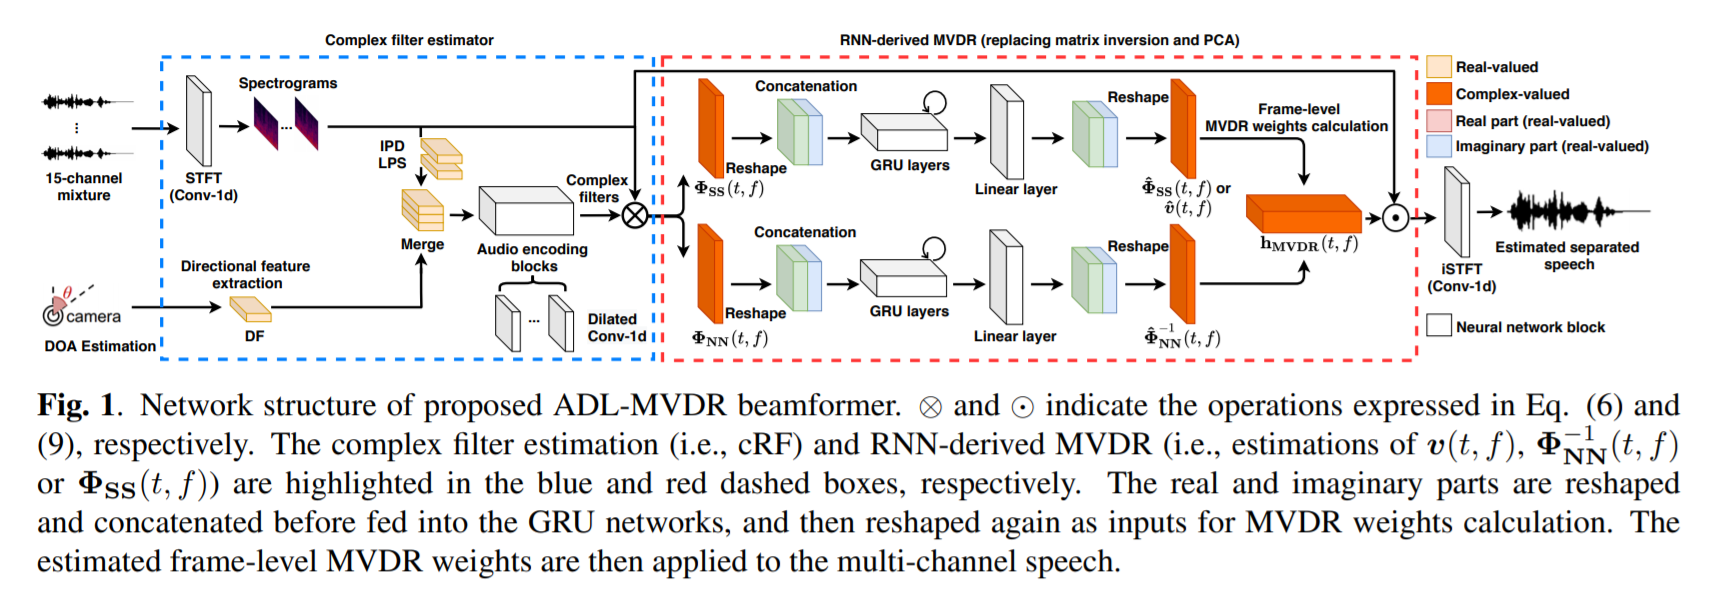
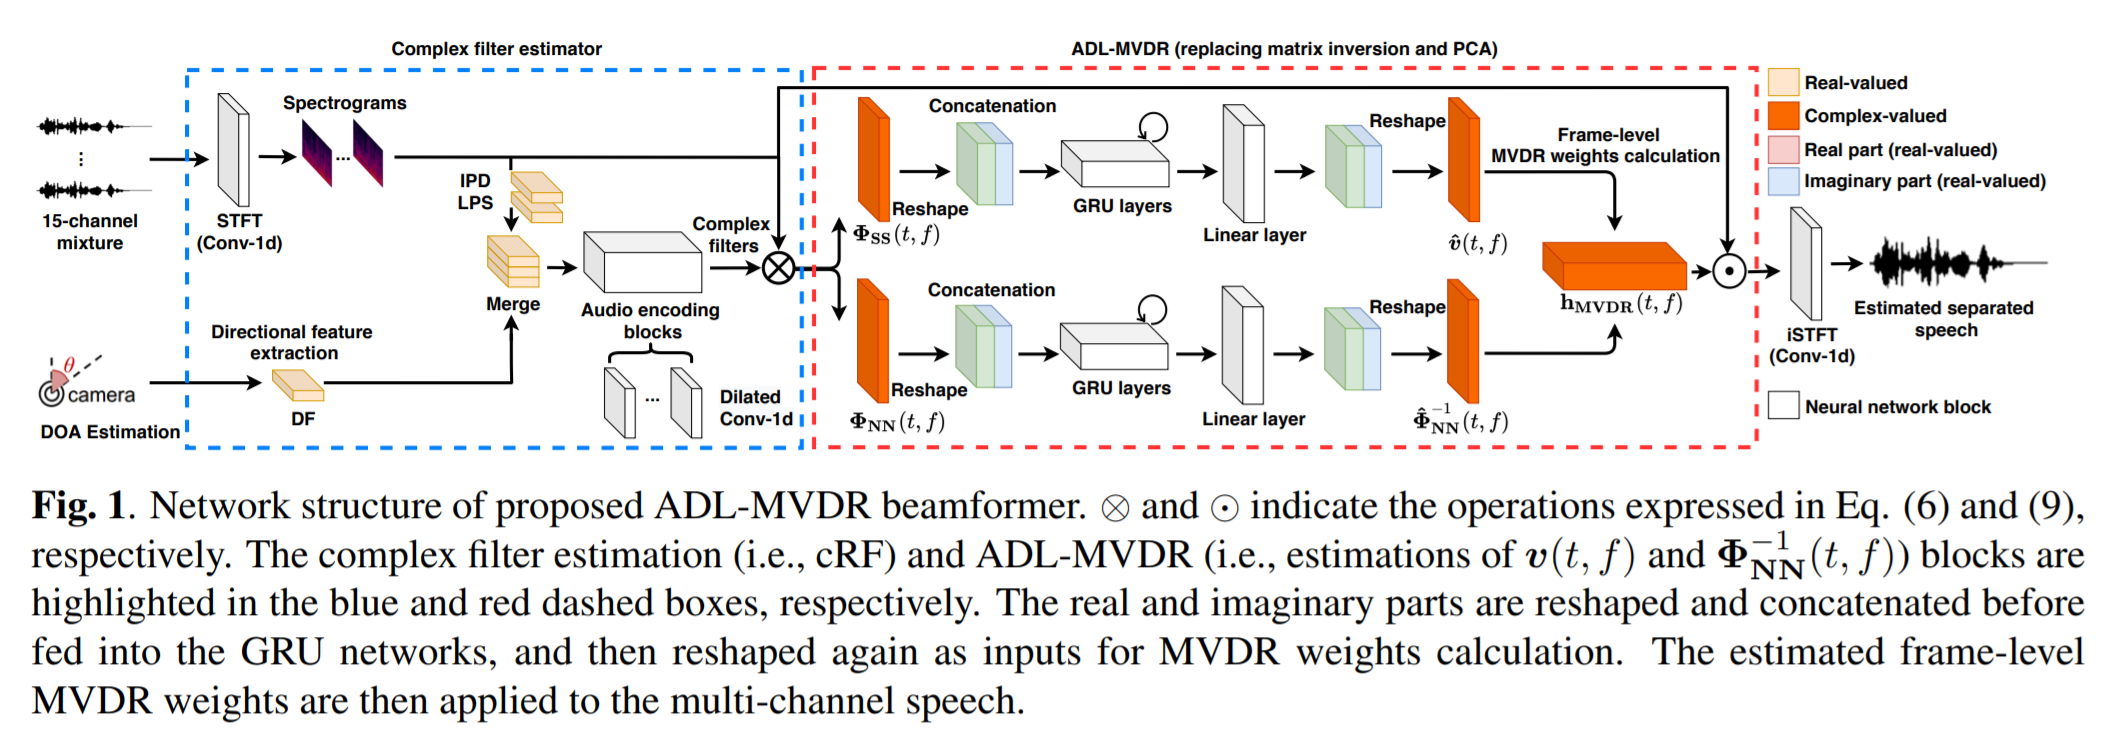
updates

diff --git a/index.html b/index.html
@@ -27,8 +27,8 @@ The minimum variance distortionless response (MVDR) beamformer can be used to mi
 <p>4. MVDR with cRF: An MVDR system with 3X3 cRF</p>  
 <p>5. Multi-tap MVDR with cRM: A multi-tap MVDR system with complex ratio mask [3]</p>  
 <p>6. Multi-tap MVDR with cRM: A multi-tap MVDR system with 3X3 cRF</p>
-<p>7. <strong>Proposed ADL-MVDR-v1 with cRF</strong>: Our proposed ADL-MVDR-v1 system with 3X3 cRF </p> 
-<p>8. <strong>Proposed ADL-MVDR-v2 with cRF</strong>: Our proposed ADL-MVDR-v2 system with 3X3 cRF </p> 
+<p>7. <strong>Proposed ADL-MVDR with cRF</strong>: Our proposed ADL-MVDR system with 3X3 cRF </p> 
+ 
 <p>&nbsp;</p>
 
 <p><strong>Wearing a headphone is strongly recommended.</strong></p>
@@ -122,12 +122,11 @@ The minimum variance distortionless response (MVDR) beamformer can be used to mi
   </tr>
 </table>
 <p>
-<img src="1spk/RD-MVDR.png" width="300" height="125" />
-<img src="1spk/RD-MVDR-v2.png" width="300" height="125" />    
+<img src="1spk/RD-MVDR.png" width="300" height="125" />  
 </p>
-<table width="510" border="1">
+<table width="255" border="1">
   <tr>
-  <td width="255"><strong>Proposed ADL-MVDR-v1 with cRF </strong>
+  <td width="255"><strong>Proposed ADL-MVDR with cRF </strong>
       <audio
         controls
         src="1spk/RD-MVDR.wav">
@@ -135,14 +134,7 @@ The minimum variance distortionless response (MVDR) beamformer can be used to mi
             <code>audio</code> element.
     </audio>
   </td>
-  <td width="255"><strong>Proposed ADL-MVDR-v2 with cRF (N/A) </strong>
-      <audio
-        controls
-        src="1spk/RD-MVDR-v2.wav">
-            Your browser does not support the
-            <code>audio</code> element.
-    </audio>
-  </td>
+  </tr>
 </table>   
     
 
@@ -236,12 +228,11 @@ The minimum variance distortionless response (MVDR) beamformer can be used to mi
   </tr>
 </table>
 <p>
-<img src="2spk/RD-MVDR.png" width="300" height="125" />
-<img src="2spk/RD-MVDR-v2.png" width="300" height="125" />    
+<img src="2spk/RD-MVDR.png" width="300" height="125" />  
 </p>
-<table width="510" border="1">
+<table width="255" border="1">
   <tr>
-  <td width="255"><strong>Proposed ADL-MVDR-v1 with cRF </strong>
+  <td width="255"><strong>Proposed ADL-MVDR with cRF </strong>
       <audio
         controls
         src="2spk/RD-MVDR.wav">
@@ -249,14 +240,7 @@ The minimum variance distortionless response (MVDR) beamformer can be used to mi
             <code>audio</code> element.
     </audio>
   </td>
-  <td width="255"><strong>Proposed ADL-MVDR-v2 with cRF (N/A) </strong>
-      <audio
-        controls
-        src="2spk/RD-MVDR-v2.wav">
-            Your browser does not support the
-            <code>audio</code> element.
-    </audio>
-  </td>
+  </tr>
 </table>   
 <p>&nbsp;</p>
 
@@ -348,12 +332,11 @@ The minimum variance distortionless response (MVDR) beamformer can be used to mi
   </tr>
 </table>
 <p>
-<img src="3spk/RD-MVDR.png" width="300" height="125" />
-<img src="3spk/RD-MVDR-v2.png" width="300" height="125" />    
+<img src="3spk/RD-MVDR.png" width="300" height="125" />    
 </p>
-<table width="510" border="1">
+<table width="255" border="1">
   <tr>
-  <td width="255"><strong>Proposed ADL-MVDR-v1 with cRF </strong>
+  <td width="255"><strong>Proposed ADL-MVDR with cRF </strong>
       <audio
         controls
         src="3spk/RD-MVDR.wav">
@@ -361,14 +344,7 @@ The minimum variance distortionless response (MVDR) beamformer can be used to mi
             <code>audio</code> element.
     </audio>
   </td>
-  <td width="255"><strong>Proposed ADL-MVDR-v2 with cRF (N/A) </strong>
-      <audio
-        controls
-        src="3spk/RD-MVDR-v2.wav">
-            Your browser does not support the
-            <code>audio</code> element.
-    </audio>
-  </td>
+  </tr>
 </table>   
 <p>&nbsp;</p>
 
